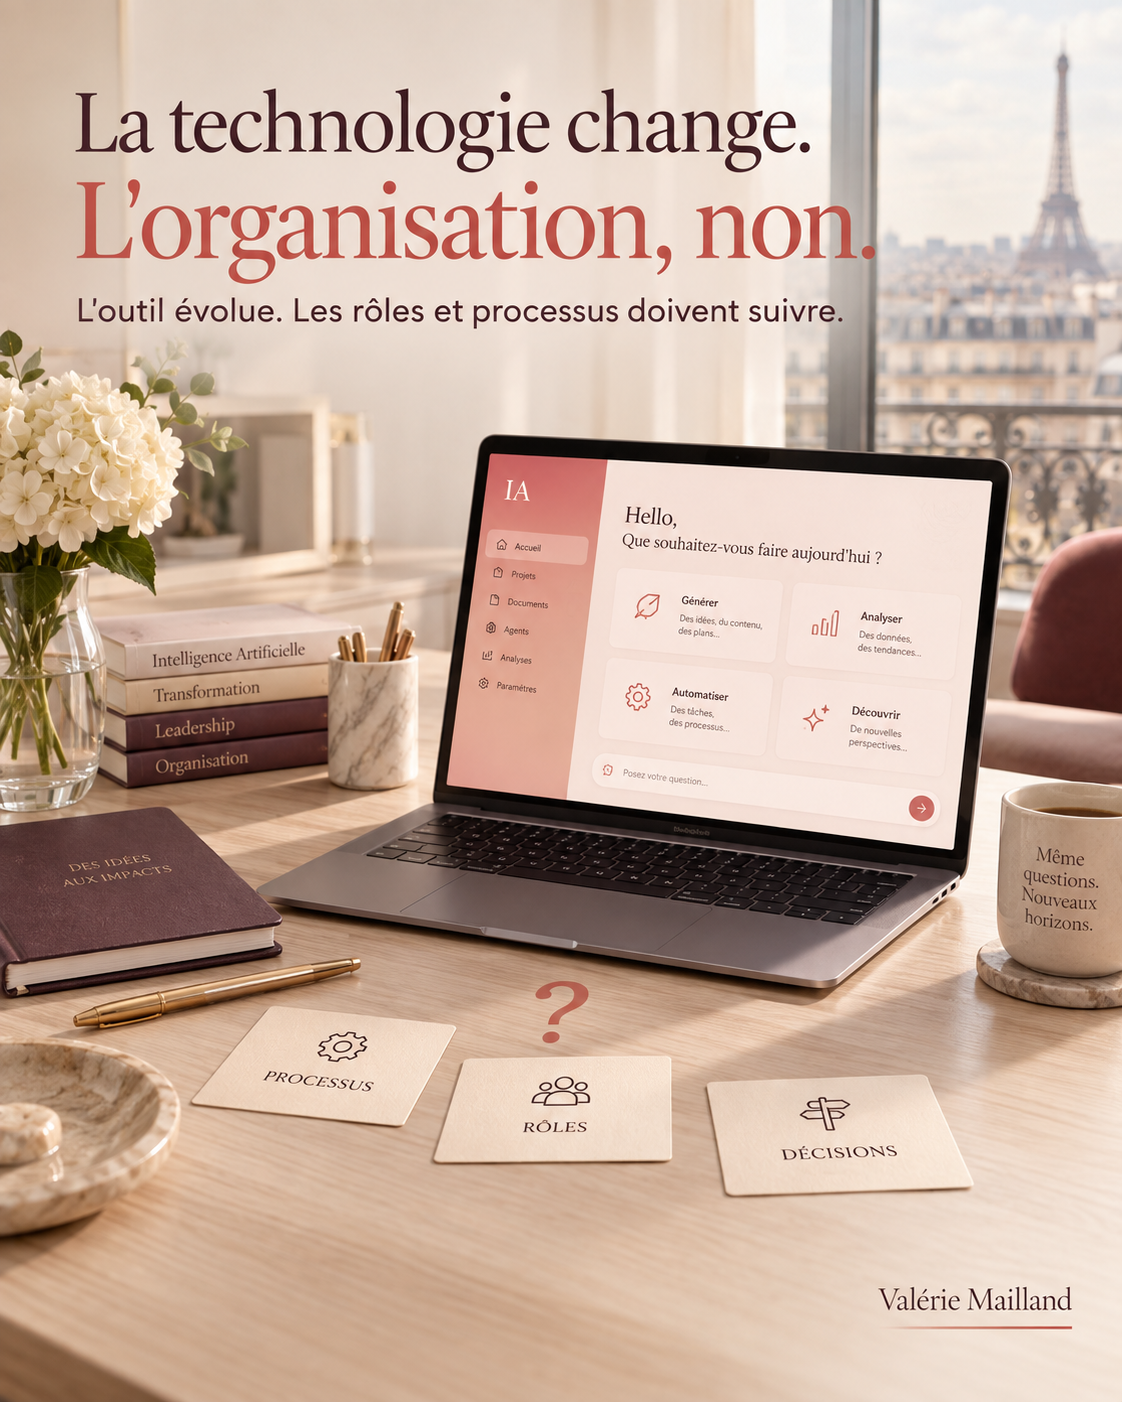
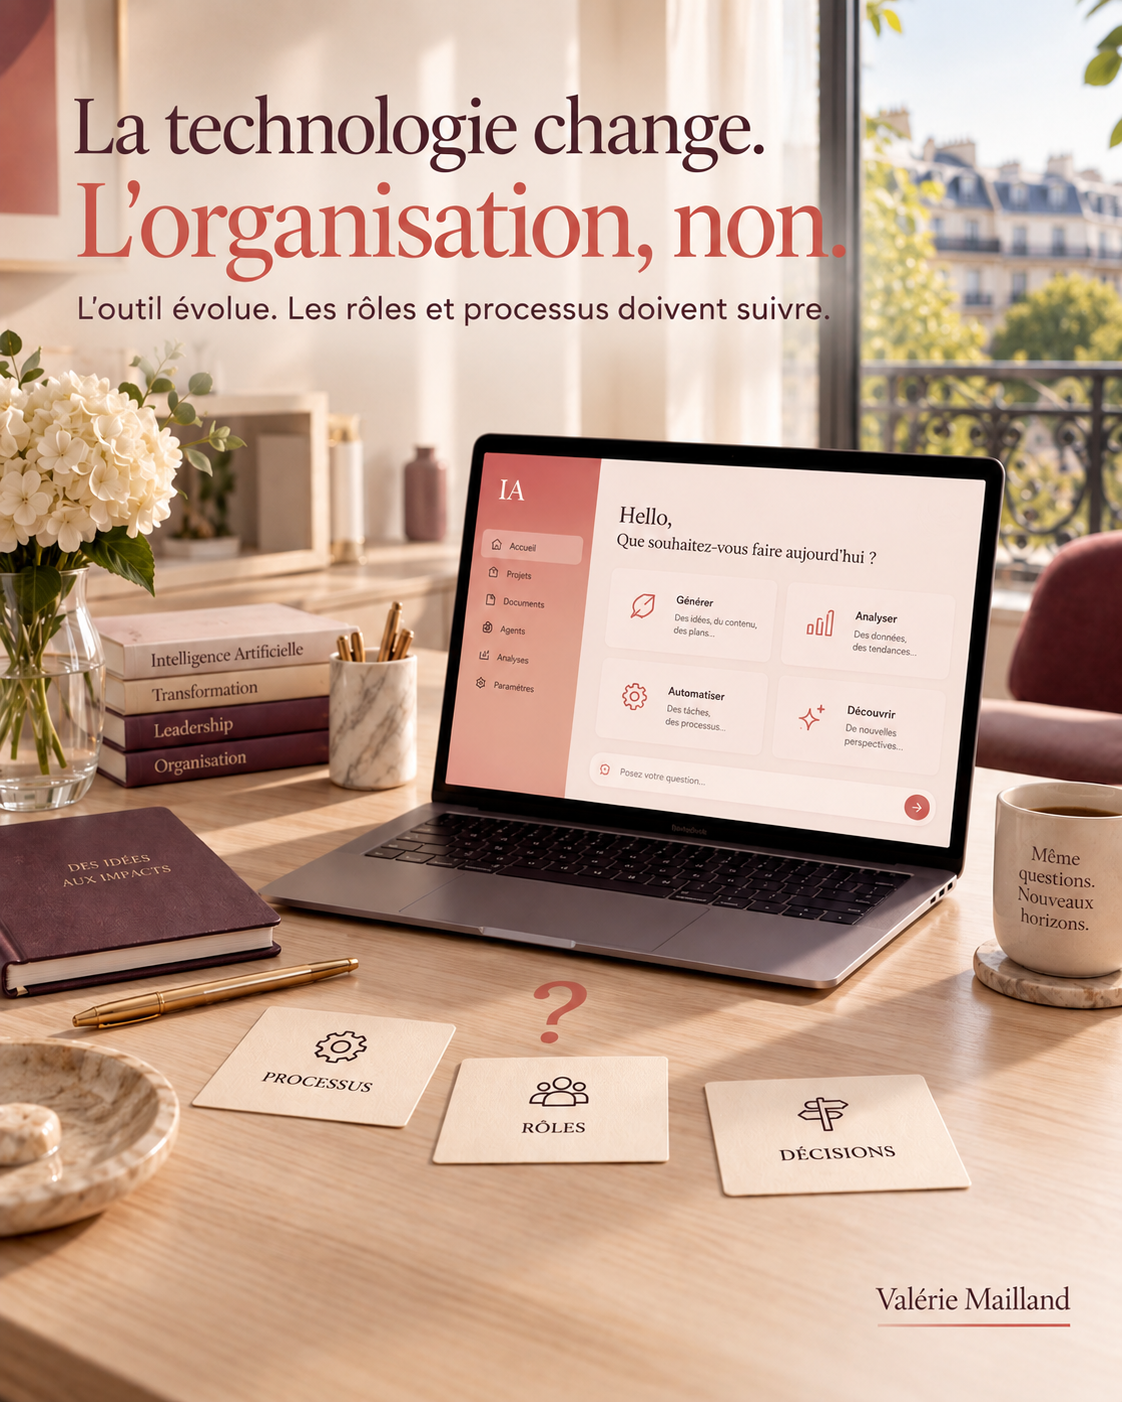
Images de couverture localisées FR/EN/ES pour Transformation et Création de valeur
- Nouvelles versions sans Tour Eiffel (flat-lay / plongée) pour éviter la
  répétition du même décor sur 3 posts consécutifs
- Chaque carte À propos utilise désormais une image dédiée par langue
  (transformation-outil-organisation-{en,es}.png,
  creation-valeur-arbitrage-outils-{en,es}.png)
- Textes EN/ES ajustés pour matcher exactement le texte incrusté dans
  l'image ("alignment problem" / "problema de alineación")
- Ajuste l'espacement avant les vignettes Perspectives (persp-intro
  margin-bottom 36px → 20px) et force le titre Perspectives sur une
  seule ligne à partir de 1300px sans risque de débordement mobile
- Ajoute ESSEC Business School au Parcours (déjà déployé précédemment)
- Bump cache-bust style.css v117 → v118

diff --git a/a-propos-es.html b/a-propos-es.html
@@ -32,7 +32,7 @@
   <link rel="preconnect" href="https://fonts.googleapis.com">
   <link rel="preconnect" href="https://fonts.gstatic.com" crossorigin>
   <link href="https://fonts.googleapis.com/css2?family=Cormorant+Garamond:ital,wght@0,400;0,500;0,600;0,700;1,400&family=Inter:wght@300;400;500;600;700&display=block" rel="stylesheet">
-  <link rel="stylesheet" href="assets/style.css?v=117">
+  <link rel="stylesheet" href="assets/style.css?v=118">
 </head>
 <body>
 <h1 class="sr-only">Perfil — Valérie Mailland, asesora estratégica en IA · EXEC'IA</h1>
@@ -112,7 +112,7 @@
   <span class="about-cta-sep" aria-hidden="true"></span>
   <div class="wrap">
     <span class="eyebrow reveal">Perspectives <span class="eyebrow-sub">· el <span class="eyebrow-blog">blog</span> de EXEC&#8217;IA</span></span>
-    <h2 class="section-title reveal delay-1">Una mirada sobre la <span style="color:var(--rose)">IA</span> forjada por años junto a los directivos.</h2>
+    <h2 class="section-title section-title--nowrap-lg reveal delay-1">Una mirada sobre la <span style="color:var(--rose)">IA</span> — forjada por años junto a los directivos.</h2>
     <p class="persp-intro reveal delay-2">Gobernanza, decisión, transformación, creación de valor&nbsp;: reflexiones compartidas en <span style="color:var(--rose)">LinkedIn</span> y profundizadas aquí para tomar distancia y entender lo que la <span style="color:var(--rose)">IA</span> cambia realmente en su empresa.</p>
 
     <div class="persp-track-outer reveal delay-2" id="perspTrack">
@@ -141,7 +141,7 @@
       </a>
       <a href="perspective-transformation-echoue-rarement-technologie.html" class="persp-card persp-card--link">
         <div class="persp-card-visual persp-card-visual--img persp-card-visual--transformation" aria-hidden="true">
-          <img src="assets/perspectives/transformation-outil-organisation.png" alt="" loading="lazy" decoding="async">
+          <img src="assets/perspectives/transformation-outil-organisation-es.png" alt="" loading="lazy" decoding="async">
           <span class="persp-card-visual-overlay">Transformación</span>
         </div>
         <span class="persp-card-meta">Transformación · 2 min</span>
@@ -152,12 +152,12 @@
       </a>
       <a href="perspective-probleme-nest-pas-outils-mais-arbitrage.html" class="persp-card persp-card--link">
         <div class="persp-card-visual persp-card-visual--img persp-card-visual--creation" aria-hidden="true">
-          <img src="assets/perspectives/creation-valeur-arbitrage-outils.png" alt="" loading="lazy" decoding="async">
+          <img src="assets/perspectives/creation-valeur-arbitrage-outils-es.png" alt="" loading="lazy" decoding="async">
           <span class="persp-card-visual-overlay">Creación de valor</span>
         </div>
         <span class="persp-card-meta">Creación de valor · 2 min</span>
         <h3 class="persp-card-title">Más herramientas de <span style="color:var(--rose)">IA</span> no significa más impacto.</h3>
-        <p class="persp-card-subtitle">No es un problema de herramientas. Es un problema de arbitraje.</p>
+        <p class="persp-card-subtitle">No es un problema de herramientas. Es un problema de alineación.</p>
         <p class="persp-card-desc">Multiplicar iniciativas sin priorizarlas diluye el esfuerzo más de lo que genera resultados. Tres criterios sencillos para saber cuáles llegan hasta el final.</p>
         <span class="persp-card-read">Leer el artículo <span class="portrait-link-arrow">→</span></span>
       </a>

diff --git a/a-propos-en.html b/a-propos-en.html
@@ -32,7 +32,7 @@
   <link rel="preconnect" href="https://fonts.googleapis.com">
   <link rel="preconnect" href="https://fonts.gstatic.com" crossorigin>
   <link href="https://fonts.googleapis.com/css2?family=Cormorant+Garamond:ital,wght@0,400;0,500;0,600;0,700;1,400&family=Inter:wght@300;400;500;600;700&display=block" rel="stylesheet">
-  <link rel="stylesheet" href="assets/style.css?v=117">
+  <link rel="stylesheet" href="assets/style.css?v=118">
 </head>
 <body>
 <h1 class="sr-only">About — Valérie Mailland, strategic AI advisor · EXEC'IA</h1>
@@ -112,7 +112,7 @@
   <span class="about-cta-sep" aria-hidden="true"></span>
   <div class="wrap">
     <span class="eyebrow reveal">Perspectives <span class="eyebrow-sub">· the EXEC&#8217;IA <span class="eyebrow-blog">blog</span></span></span>
-    <h2 class="section-title reveal delay-1">A view on <span style="color:var(--rose)">AI</span> shaped by years spent close to executives.</h2>
+    <h2 class="section-title section-title--nowrap-lg reveal delay-1">A view on <span style="color:var(--rose)">AI</span> — shaped by years spent close to executives.</h2>
     <p class="persp-intro reveal delay-2">Governance, decision-making, transformation, value creation&nbsp;: reflections shared on <span style="color:var(--rose)">LinkedIn</span> and explored further here to step back and see what <span style="color:var(--rose)">AI</span> actually changes inside your company.</p>
 
     <div class="persp-track-outer reveal delay-2" id="perspTrack">
@@ -141,7 +141,7 @@
       </a>
       <a href="perspective-transformation-echoue-rarement-technologie.html" class="persp-card persp-card--link">
         <div class="persp-card-visual persp-card-visual--img persp-card-visual--transformation" aria-hidden="true">
-          <img src="assets/perspectives/transformation-outil-organisation.png" alt="" loading="lazy" decoding="async">
+          <img src="assets/perspectives/transformation-outil-organisation-en.png" alt="" loading="lazy" decoding="async">
           <span class="persp-card-visual-overlay">Transformation</span>
         </div>
         <span class="persp-card-meta">Transformation · 2 min</span>
@@ -152,12 +152,12 @@
       </a>
       <a href="perspective-probleme-nest-pas-outils-mais-arbitrage.html" class="persp-card persp-card--link">
         <div class="persp-card-visual persp-card-visual--img persp-card-visual--creation" aria-hidden="true">
-          <img src="assets/perspectives/creation-valeur-arbitrage-outils.png" alt="" loading="lazy" decoding="async">
+          <img src="assets/perspectives/creation-valeur-arbitrage-outils-en.png" alt="" loading="lazy" decoding="async">
           <span class="persp-card-visual-overlay">Value creation</span>
         </div>
         <span class="persp-card-meta">Value creation · 2 min</span>
         <h3 class="persp-card-title">More <span style="color:var(--rose)">AI</span> tools doesn&#8217;t mean more impact.</h3>
-        <p class="persp-card-subtitle">It&#8217;s not a tooling problem. It&#8217;s an arbitration problem.</p>
+        <p class="persp-card-subtitle">It&#8217;s not a tooling problem. It&#8217;s an alignment problem.</p>
         <p class="persp-card-desc">Piling up initiatives without arbitrating them dilutes effort more than it creates results. Three simple criteria to know which ones go the distance.</p>
         <span class="persp-card-read">Read the article <span class="portrait-link-arrow">→</span></span>
       </a>

diff --git a/a-propos.html b/a-propos.html
@@ -32,7 +32,7 @@
   <link rel="preconnect" href="https://fonts.googleapis.com">
   <link rel="preconnect" href="https://fonts.gstatic.com" crossorigin>
   <link href="https://fonts.googleapis.com/css2?family=Cormorant+Garamond:ital,wght@0,400;0,500;0,600;0,700;1,400&family=Inter:wght@300;400;500;600;700&display=block" rel="stylesheet">
-  <link rel="stylesheet" href="assets/style.css?v=117">
+  <link rel="stylesheet" href="assets/style.css?v=118">
 </head>
 <body>
 <h1 class="sr-only">À propos — Valérie Mailland, conseil stratégique en IA · EXEC'IA</h1>
@@ -112,8 +112,8 @@
   <span class="about-cta-sep" aria-hidden="true"></span>
   <div class="wrap">
     <span class="eyebrow reveal">Perspectives <span class="eyebrow-sub">· le <span class="eyebrow-blog">blog</span> d&#8217;EXEC&#8217;IA</span></span>
-    <h2 class="section-title reveal delay-1">Un regard sur l&#8217;<span style="color:var(--rose)">IA</span> façonné par des années au plus près des dirigeants.</h2>
-    <p class="persp-intro reveal delay-2">Gouvernance, décision, transformation, création de valeur&nbsp;: des réflexions partagées sur <span style="color:var(--rose)">LinkedIn</span> et approfondies ici pour prendre du recul sur ce que <span style="color:var(--rose)">l&#8217;IA</span> change réellement dans votre entreprise.</p>
+    <h2 class="section-title section-title--nowrap-lg reveal delay-1">Un regard sur l&#8217;<span style="color:var(--rose)">IA</span> — façonné par des années au plus près des dirigeants.</h2>
+    <p class="persp-intro reveal delay-2">Gouvernance, décision, transformation, création de valeur&nbsp;: des réflexions partagées sur <span style="color:var(--rose)">LinkedIn</span><br>et approfondies ici pour prendre du recul sur ce que <span style="color:var(--rose)">l&#8217;IA</span> change réellement dans votre entreprise.</p>
 
     <div class="persp-track-outer reveal delay-2" id="perspTrack">
     <div class="persp-track">

diff --git a/index.html b/index.html
@@ -73,7 +73,7 @@
   <link rel="preconnect" href="https://fonts.googleapis.com">
   <link rel="preconnect" href="https://fonts.gstatic.com" crossorigin>
   <link href="https://fonts.googleapis.com/css2?family=Cormorant+Garamond:ital,wght@0,400;0,500;0,600;0,700;1,400&family=Inter:wght@300;400;500;600;700&display=block" rel="stylesheet">
-  <link rel="stylesheet" href="assets/style.css?v=117">
+  <link rel="stylesheet" href="assets/style.css?v=118">
 </head>
 <body>
 <h1 class="sr-only">EXEC'IA — Conseil stratégique en Intelligence Artificielle pour dirigeants</h1>
@@ -321,7 +321,7 @@
 <section id="home-perspectives" class="bg-ivory">
   <div class="wrap">
     <span class="eyebrow reveal">Perspectives <span class="eyebrow-sub">· le <span class="eyebrow-blog">blog</span> d&#8217;EXEC&#8217;IA</span></span>
-    <h2 class="section-title reveal" style="margin-bottom:16px;">Un regard sur l&#8217;<span style="color:var(--rose)">IA</span> façonné par des années au plus près des dirigeants.</h2>
+    <h2 class="section-title section-title--nowrap-lg reveal" style="margin-bottom:16px;">Un regard sur l&#8217;<span style="color:var(--rose)">IA</span> — façonné par des années au plus près des dirigeants.</h2>
     <a href="perspective-entreprise-utilise-deja-ia.html" class="home-persp-card reveal delay-1">
       <div class="home-persp-card-visual home-persp-card-visual--img" aria-hidden="true">
         <img src="assets/perspectives/gouvernance-linkedin-cover.png" alt="" loading="lazy" decoding="async">

diff --git a/index-es.html b/index-es.html
@@ -73,7 +73,7 @@
   <link rel="preconnect" href="https://fonts.googleapis.com">
   <link rel="preconnect" href="https://fonts.gstatic.com" crossorigin>
   <link href="https://fonts.googleapis.com/css2?family=Cormorant+Garamond:ital,wght@0,400;0,500;0,600;0,700;1,400&family=Inter:wght@300;400;500;600;700&display=block" rel="stylesheet">
-  <link rel="stylesheet" href="assets/style.css?v=117">
+  <link rel="stylesheet" href="assets/style.css?v=118">
 </head>
 <body>
 <h1 class="sr-only">EXEC'IA — Asesoría estratégica en Inteligencia Artificial para directivos</h1>
@@ -321,7 +321,7 @@
 <section id="home-perspectives" class="bg-ivory">
   <div class="wrap">
     <span class="eyebrow reveal">Perspectives <span class="eyebrow-sub">· el <span class="eyebrow-blog">blog</span> de EXEC&#8217;IA</span></span>
-    <h2 class="section-title reveal" style="margin-bottom:16px;">Una mirada sobre la <span style="color:var(--rose)">IA</span> forjada por años junto a los directivos.</h2>
+    <h2 class="section-title section-title--nowrap-lg reveal" style="margin-bottom:16px;">Una mirada sobre la <span style="color:var(--rose)">IA</span> — forjada por años junto a los directivos.</h2>
     <a href="perspective-entreprise-utilise-deja-ia.html" class="home-persp-card reveal delay-1">
       <div class="home-persp-card-visual home-persp-card-visual--img" aria-hidden="true">
         <img src="assets/perspectives/gouvernance-linkedin-cover.png" alt="" loading="lazy" decoding="async">

diff --git a/index-en.html b/index-en.html
@@ -73,7 +73,7 @@
   <link rel="preconnect" href="https://fonts.googleapis.com">
   <link rel="preconnect" href="https://fonts.gstatic.com" crossorigin>
   <link href="https://fonts.googleapis.com/css2?family=Cormorant+Garamond:ital,wght@0,400;0,500;0,600;0,700;1,400&family=Inter:wght@300;400;500;600;700&display=block" rel="stylesheet">
-  <link rel="stylesheet" href="assets/style.css?v=117">
+  <link rel="stylesheet" href="assets/style.css?v=118">
 </head>
 <body>
 <h1 class="sr-only">EXEC'IA — Strategic Artificial Intelligence advisory for executives</h1>
@@ -321,7 +321,7 @@
 <section id="home-perspectives" class="bg-ivory">
   <div class="wrap">
     <span class="eyebrow reveal">Perspectives <span class="eyebrow-sub">· the EXEC&#8217;IA <span class="eyebrow-blog">blog</span></span></span>
-    <h2 class="section-title reveal" style="margin-bottom:16px;">A view on <span style="color:var(--rose)">AI</span> shaped by years spent close to executives.</h2>
+    <h2 class="section-title section-title--nowrap-lg reveal" style="margin-bottom:16px;">A view on <span style="color:var(--rose)">AI</span> — shaped by years spent close to executives.</h2>
     <a href="perspective-entreprise-utilise-deja-ia.html" class="home-persp-card reveal delay-1">
       <div class="home-persp-card-visual home-persp-card-visual--img" aria-hidden="true">
         <img src="assets/perspectives/gouvernance-linkedin-cover.png" alt="" loading="lazy" decoding="async">

diff --git a/assets/style.css b/assets/style.css
@@ -820,6 +820,11 @@ section { padding: clamp(18px, 2.2vw, 28px) 0; }
   padding-left: 24px;
 }
 .section-title-light { color: var(--white); }
+/* Titre Perspectives — tient sur une ligne à partir de 1300px, revient
+   au retour à la ligne naturel en dessous pour ne jamais déborder. */
+@media (min-width: 1300px) {
+  .section-title--nowrap-lg { white-space: nowrap; }
+}
 /* Témoignages — matrice ve-title (Cormorant, 500) */
 .testi-section .section-title {
   font-family: var(--serif);
@@ -1044,7 +1049,7 @@ section { padding: clamp(18px, 2.2vw, 28px) 0; }
 .persp-intro {
   font-family: var(--sans); font-size: 1.1rem; font-weight: 400;
   color: var(--text); line-height: 1.6; max-width: 760px;
-  margin: 0 0 36px;
+  margin: 0 0 20px;
 }
 /* Défilement horizontal — même mécanique que le carousel Agents (expertise.html) */
 .persp-track-outer {

diff --git a/mentions-legales.html b/mentions-legales.html
@@ -12,7 +12,7 @@
   <link rel="preconnect" href="https://fonts.googleapis.com">
   <link rel="preconnect" href="https://fonts.gstatic.com" crossorigin>
   <link href="https://fonts.googleapis.com/css2?family=Cormorant+Garamond:ital,wght@0,400;0,500;0,600;0,700;1,400&family=Inter:wght@300;400;500;600;700&display=block" rel="stylesheet">
-  <link rel="stylesheet" href="assets/style.css?v=117">
+  <link rel="stylesheet" href="assets/style.css?v=118">
   <style>
     .ml-page { max-width: 760px; margin: 0 auto; padding: 80px 24px clamp(60px, 8vw, 100px); }
     .ml-page h1 { font-family: var(--serif); font-size: clamp(2.2rem, 3.4vw, 3.2rem); font-weight: 600; line-height: 1.1; letter-spacing: -.01em; color: #633B4A; margin-bottom: 32px; border-left: 3px solid #C75F62; padding-left: 24px; }

diff --git a/offres-es.html b/offres-es.html
@@ -32,7 +32,7 @@
   <link rel="preconnect" href="https://fonts.googleapis.com">
   <link rel="preconnect" href="https://fonts.gstatic.com" crossorigin>
   <link href="https://fonts.googleapis.com/css2?family=Cormorant+Garamond:ital,wght@0,400;0,500;0,600;0,700;1,400&family=Inter:wght@300;400;500;600;700&display=block" rel="stylesheet">
-  <link rel="stylesheet" href="assets/style.css?v=117">
+  <link rel="stylesheet" href="assets/style.css?v=118">
 </head>
 <body>
 <h1 class="sr-only">Servicios — acompañamiento estratégico en IA para directivos</h1>

diff --git a/offres.html b/offres.html
@@ -32,7 +32,7 @@
   <link rel="preconnect" href="https://fonts.googleapis.com">
   <link rel="preconnect" href="https://fonts.gstatic.com" crossorigin>
   <link href="https://fonts.googleapis.com/css2?family=Cormorant+Garamond:ital,wght@0,400;0,500;0,600;0,700;1,400&family=Inter:wght@300;400;500;600;700&display=block" rel="stylesheet">
-  <link rel="stylesheet" href="assets/style.css?v=117">
+  <link rel="stylesheet" href="assets/style.css?v=118">
 </head>
 <body>
 <h1 class="sr-only">Offres — accompagnement stratégique en IA pour dirigeants</h1>

diff --git a/offres-en.html b/offres-en.html
@@ -32,7 +32,7 @@
   <link rel="preconnect" href="https://fonts.googleapis.com">
   <link rel="preconnect" href="https://fonts.gstatic.com" crossorigin>
   <link href="https://fonts.googleapis.com/css2?family=Cormorant+Garamond:ital,wght@0,400;0,500;0,600;0,700;1,400&family=Inter:wght@300;400;500;600;700&display=block" rel="stylesheet">
-  <link rel="stylesheet" href="assets/style.css?v=117">
+  <link rel="stylesheet" href="assets/style.css?v=118">
 </head>
 <body>
 <h1 class="sr-only">Offers — strategic AI support for executives</h1>

diff --git a/temoignages-en.html b/temoignages-en.html
@@ -32,7 +32,7 @@
   <link rel="preconnect" href="https://fonts.googleapis.com">
   <link rel="preconnect" href="https://fonts.gstatic.com" crossorigin>
   <link href="https://fonts.googleapis.com/css2?family=Cormorant+Garamond:ital,wght@0,400;0,500;0,600;0,700;1,400&family=Inter:wght@300;400;500;600;700&display=block" rel="stylesheet">
-  <link rel="stylesheet" href="assets/style.css?v=117">
+  <link rel="stylesheet" href="assets/style.css?v=118">
 </head>
 <body>
 <h1 class="sr-only">Testimonials — EXEC'IA</h1>
